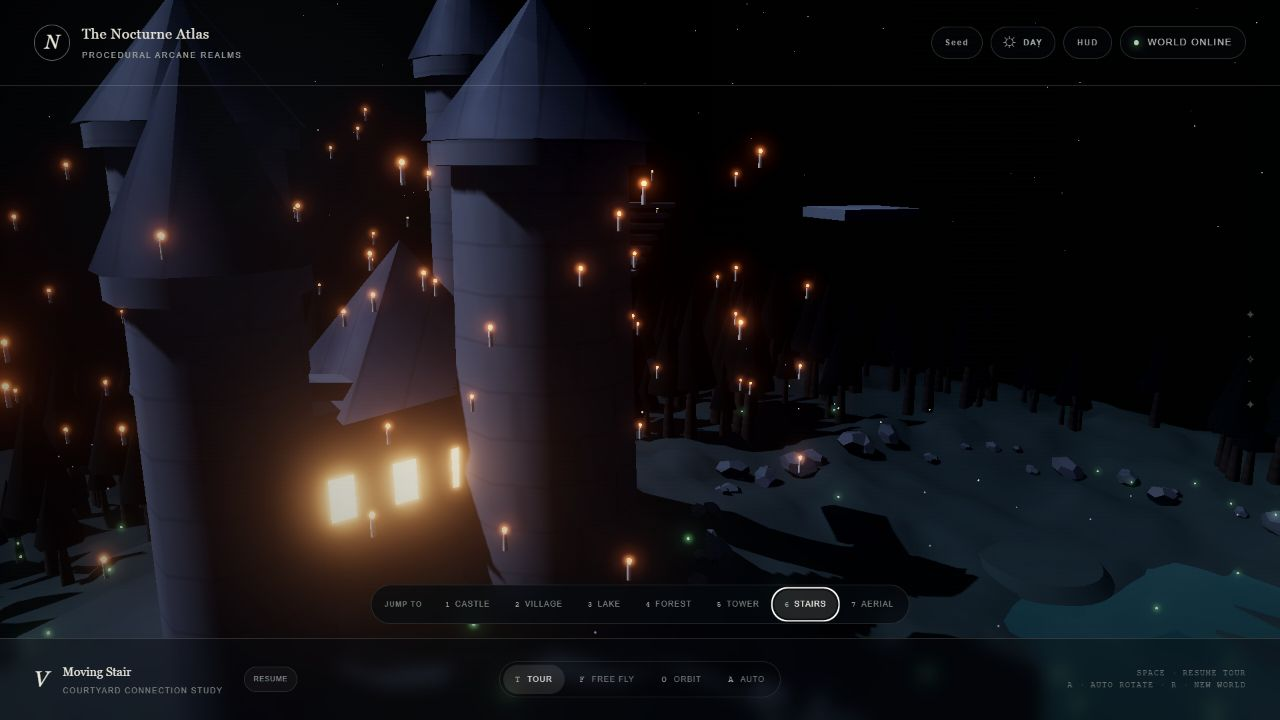
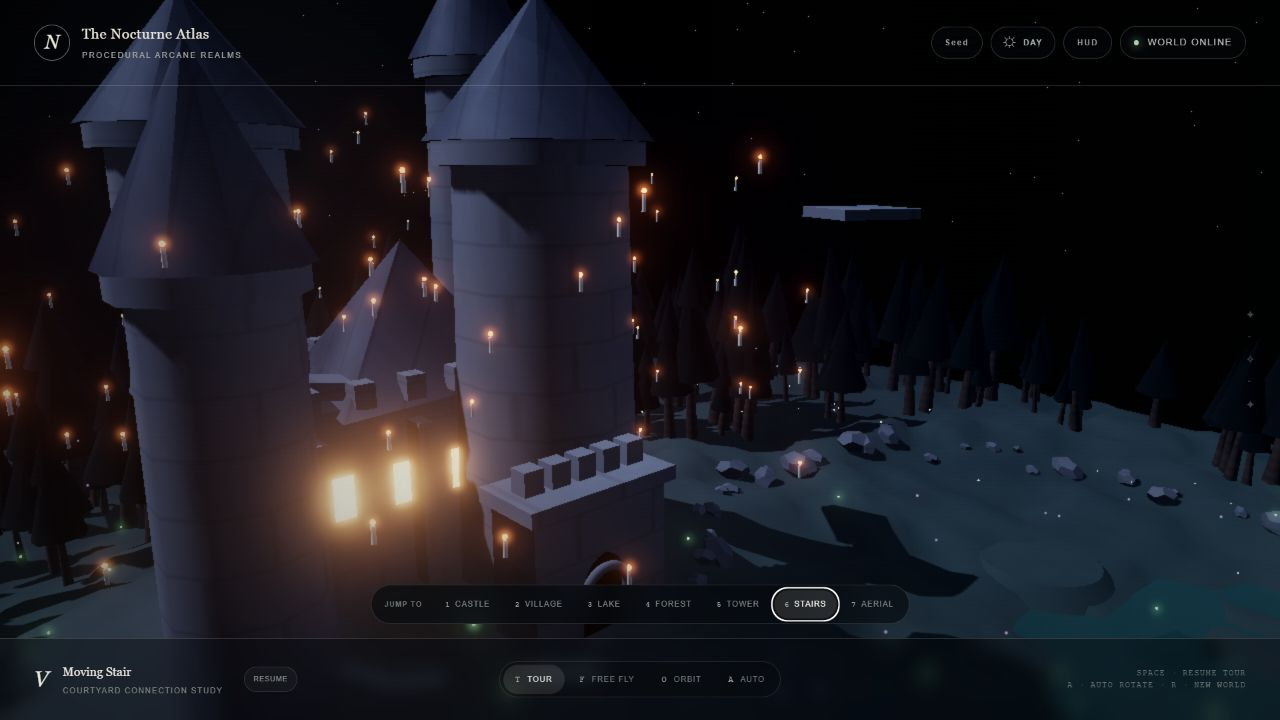
Refresh scene gallery for generator 1.8.0

diff --git a/README.md b/README.md
@@ -8,9 +8,9 @@ An original, seed-driven 3D wizarding world built with Three.js and TypeScript.
 
 ## Scene Gallery / 場景圖庫
 
-Captured from the deterministic `MAGIC-001` world with generator `1.7.0`, Medium quality, and night mode. Every image is an actual scene-switch destination with the tour paused after arrival. Generator `1.8.0` preserves these camera destinations and adds the seeded castle, village, and forest geometry described below.
+Captured from the deterministic `MAGIC-001` world with generator `1.8.0`, Medium quality, and night mode. Every image is an actual scene-switch destination with the tour paused after arrival. The gallery includes the seeded castle gatehouse, buttresses and battlements, village chimneys and trim, and layered forest silhouettes introduced in this version.
 
-以下畫面擷取自固定種子 `MAGIC-001`、生成器 `1.7.0`、中等畫質與夜間模式。每張圖片都是實際可切換的場景目的地，抵達後導覽會保持暫停。生成器 `1.8.0` 保留相同鏡頭目的地，並加入下方說明的城堡、村莊與森林種子化幾何細節。
+以下畫面擷取自固定種子 `MAGIC-001`、生成器 `1.8.0`、中等畫質與夜間模式。每張圖片都是實際可切換的場景目的地，抵達後導覽會保持暫停。圖庫已呈現此版本新增的種子化城門建築、扶壁與垛口、村莊煙囪與飾條，以及分層森林輪廓。
 
 | 1 · Castle of Veyra / 維拉城堡 | 2 · Lumen Row / 流明街村莊 |
 | --- | --- |
@@ -68,12 +68,12 @@ Create a production build with `npm run build`. Run the deterministic regression
 
 ### Validation evidence
 
-- Seven fixed destinations were browser-checked and captured from the current generator.
+- Seven fixed destinations were browser-checked and recaptured from generator `1.8.0` at 1280×720.
 - Village, Forest, Tower, and Moving Stair cameras satisfy presentation-clearance contracts across twenty regression seeds.
 - Day/night transition, automatic orbit, mouse drag, and wheel zoom were exercised in the local WebGL experience. Touch input shares the tested orbit constraints and adds one-finger drag plus two-finger pinch.
 - All 26 deterministic, lifecycle, shader, environment, camera, and presentation tests pass. Coverage includes seeded detail profiles, night fill ownership, exposure, fog density, daylight transition, shadow toggles, landmark-relative orbit focus, drag-paused automatic rotation, and idempotent cleanup.
 - Production build and lint complete without errors. The build currently reports a non-blocking warning for the Three.js client chunk exceeding 500 kB after minification.
-- The generator `1.7.0` baseline Medium-quality sample reported 146 draw calls, 55k triangles, and 70 geometries, within the Phase 1 draw-call budget. The `1.8.0` village detail pass replaces per-building windows with shared instances to offset its new geometry; a fresh hardware sample remains recommended. Final 1080p FPS qualification is hardware-dependent.
+- The current generator `1.8.0` Medium-quality castle sample reports 172 draw calls, 63k triangles, and 64 geometries, within the Phase 1 draw-call budget. The village detail pass replaces per-building windows with shared instances to offset its new geometry. Final 1080p FPS qualification remains hardware-dependent.
 
 ### Implementation notes
 
@@ -133,12 +133,12 @@ npm run dev
 
 ### 驗證結果
 
-- 七個固定場景目的地皆已在目前的生成器中實際檢查並截圖。
+- 七個固定場景目的地皆已使用生成器 `1.8.0` 以 1280×720 實際檢查並重新截圖。
 - 村莊、森林、高塔與移動階梯鏡頭，在二十組回歸種子中皆符合取景淨空規則。
 - 日夜切換、自動環繞、滑鼠拖曳與滾輪縮放已在本機 WebGL 場景操作驗證。觸控操作沿用相同環繞限制，並加入單指拖曳與雙指縮放。
 - 26 項固定性、生命週期、Shader、環境、鏡頭與場景呈現測試全數通過。涵蓋種子化細節設定、夜間補光管理、曝光、霧密度、日夜轉換、陰影切換、地標中心環繞、拖曳暫停自轉與重複清理安全性。
 - 正式建置與 Lint 均無錯誤。目前僅有 Three.js 用戶端區塊壓縮後超過 500 kB 的非阻擋警告。
-- 生成器 `1.7.0` 的中等畫質基準抽樣為 146 Draw Calls、55k 三角形與 70 個 Geometry，符合 Phase 1 的 Draw Call 預算。`1.8.0` 村莊細節更新以共用 Instancing 取代逐棟窗戶，抵銷新增幾何成本；仍建議在目標硬體上重新取樣。最終 1080p FPS 需依實際硬體確認。
+- 目前生成器 `1.8.0` 的中等畫質城堡抽樣為 172 Draw Calls、63k 三角形與 64 個 Geometry，符合 Phase 1 的 Draw Call 預算。村莊細節以共用 Instancing 取代逐棟窗戶，抵銷新增幾何成本。最終 1080p FPS 仍需依實際硬體確認。
 
 ### 實作說明
 
